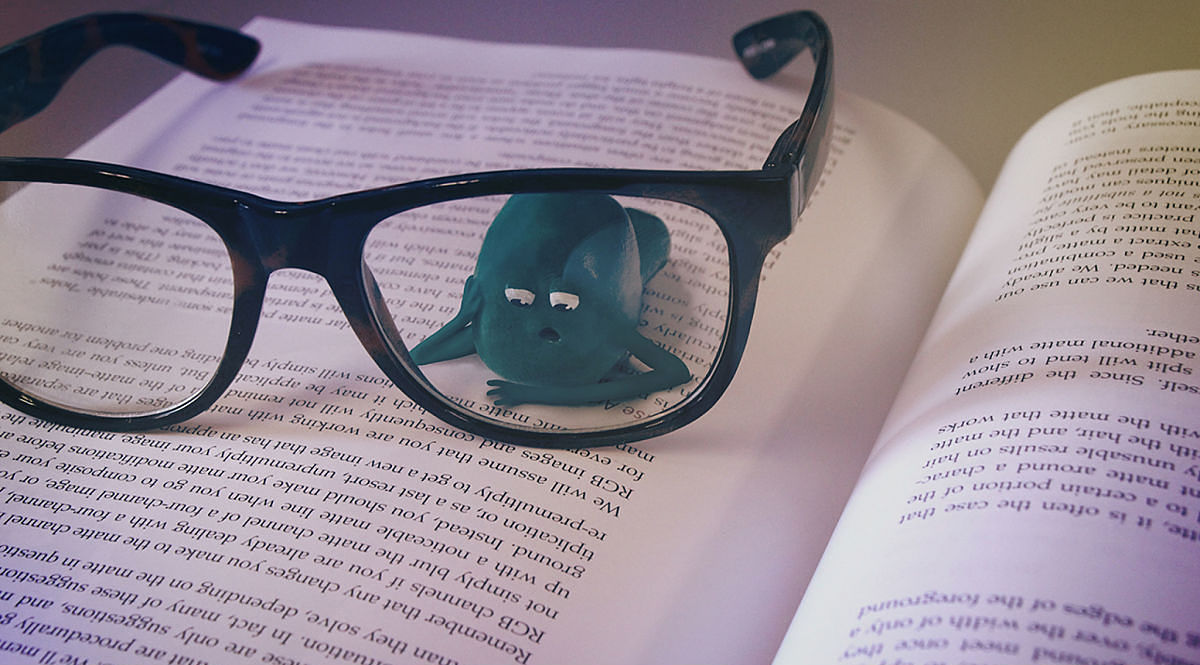
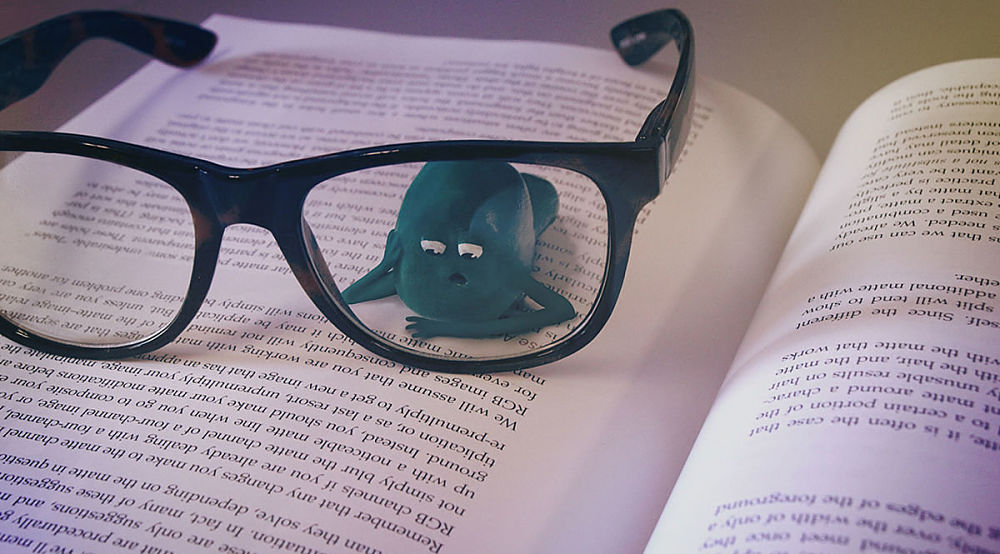
Optimized motion category thumbnails - Size decreased by almost 90%!

diff --git a/index.html b/index.html
@@ -59,7 +59,7 @@
             <div class="demo-wrap">
                 <div class="demo-video">
                     <div class="responsive-vidbox">
-                        <video id="demo" preload="none" data-setup class="video-js vjs-default-skin" poster="img/thumbnails/motion/demo.png" controls>
+                        <video id="demo" preload="none" data-setup class="video-js vjs-default-skin" poster="img/thumbnails/motion/demo.jpg" controls>
                             <source type="video/mp4" src="videos/demoreel.mp4">
                         </video>
                     </div>
@@ -116,22 +116,22 @@
 
                                 <h2 style="text-align:center; display: block; width: 100%; font-size: 2.4rem; font-family:'Raleway', Helvetica;">~ Projects ~</h2>
 
-                                <div class="thumb video-thumb" style="background:url('img/thumbnails/motion/warpaint.png') center no-repeat; background-size:cover;">
+                                <div class="thumb video-thumb" style="background:url('img/thumbnails/motion/warpaint.jpg') center no-repeat; background-size:cover;">
                                     <a href="#warpaint" class="open-video-popup not-a-link"></a>
                                 </div>
-                                <div class="thumb video-thumb" style="background:url('img/thumbnails/motion/goodsoil.png') center no-repeat; background-size:cover;">
+                                <div class="thumb video-thumb" style="background:url('img/thumbnails/motion/goodsoil.jpg') center no-repeat; background-size:cover;">
                                     <a href="#goodsoil" class="open-video-popup not-a-link"></a>
                                 </div>
-                                <div class="thumb video-thumb" style="background:url('img/thumbnails/motion/natgeo.png') center no-repeat; background-size:cover;">
+                                <div class="thumb video-thumb" style="background:url('img/thumbnails/motion/natgeo.jpg') center no-repeat; background-size:cover;">
                                     <a href="#natgeo" class="open-video-popup not-a-link"></a>
                                 </div>
-                                <div class="thumb video-thumb" style="background:url('img/thumbnails/motion/vuevent.png') center no-repeat; background-size:cover;">
+                                <div class="thumb video-thumb" style="background:url('img/thumbnails/motion/vuevent.jpg') center no-repeat; background-size:cover;">
                                     <a href="#vuevent" class="open-video-popup not-a-link"></a>
                                 </div>
-                                <div class="thumb video-thumb" style="background:url('img/thumbnails/motion/mrfox.png') center no-repeat; background-size:cover;">
+                                <div class="thumb video-thumb" style="background:url('img/thumbnails/motion/mrfox.jpg') center no-repeat; background-size:cover;">
                                     <a href="#mrfox" class="open-video-popup not-a-link"></a>
                                 </div>
-                                <div class="thumb video-thumb" style="background:url('img/thumbnails/motion/vans.png') center no-repeat; background-size:cover;">
+                                <div class="thumb video-thumb" style="background:url('img/thumbnails/motion/vans.jpg') center no-repeat; background-size:cover;">
                                     <a href="#vans" class="open-video-popup not-a-link"></a>
                                 </div>
                             </div>
